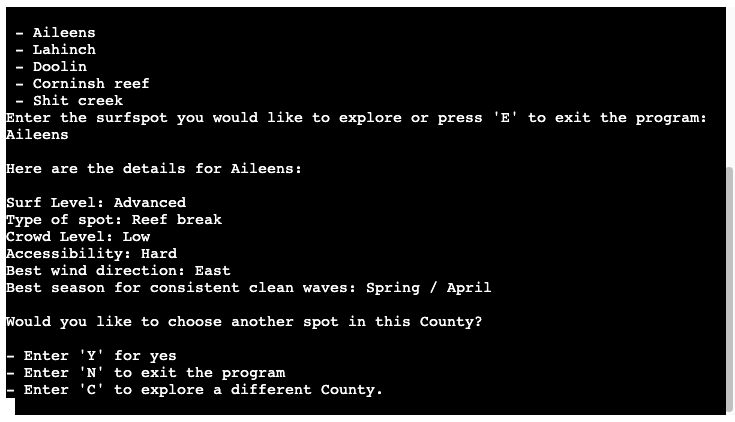
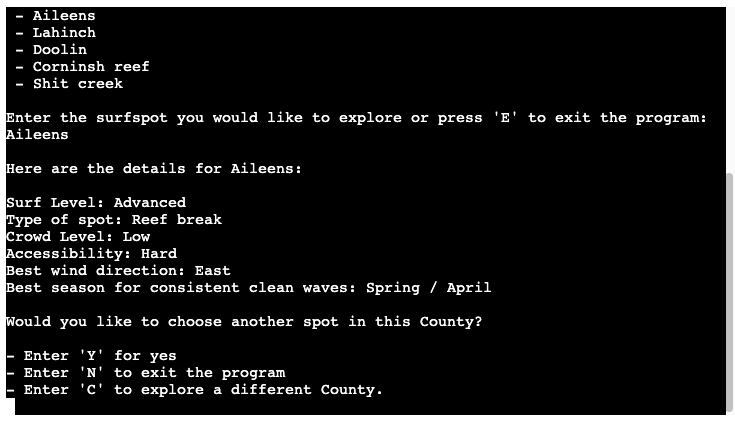
Change N to E for exiting program in program_continue

Changed region(s): [[0.0299, 0.0308, 0.2095, 0.2464], [0.9878, 0.4005, 1.0, 0.4313]]

diff --git a/run.py b/run.py
@@ -194,7 +194,7 @@ def program_continue_options(user_county, available_counties, surf_spots):
         restart = input(
             "\nWould you like to choose another spot in this County?\n\n"
             "- Enter 'Y' for yes\n"
-            "- Enter 'N' to exit the program\n"
+            "- Enter 'E' to exit the program\n"
             "- Enter 'C' to explore a different County.\n"
         ).upper().strip()
 
@@ -207,7 +207,7 @@ def program_continue_options(user_county, available_counties, surf_spots):
             program_continue_options(user_county, available_counties, surf_spots)
             break
 
-        elif restart == "N":
+        elif restart == "E":
             clear_terminal()
             print("\nHave a great surf trip!\n")
             goodbye()

diff --git a/README.md b/README.md
@@ -86,7 +86,7 @@ In the welcome message the purpuse of the app is explained.
 
 ### Surfspots
 
-* After choosing a County the terminal is cleared and a list of available surfspots for that County are displayed. The user is asked if they want to explore one of these surfspots or if they want to exit the program
+* After choosing a County the terminal is cleared and a list of available surfspots for that County are displayed. The user is asked if they want to explore one of these surfspots or if they want to exit the program.
 
 ![Surfspots](README-files/surfspots.png)
 
